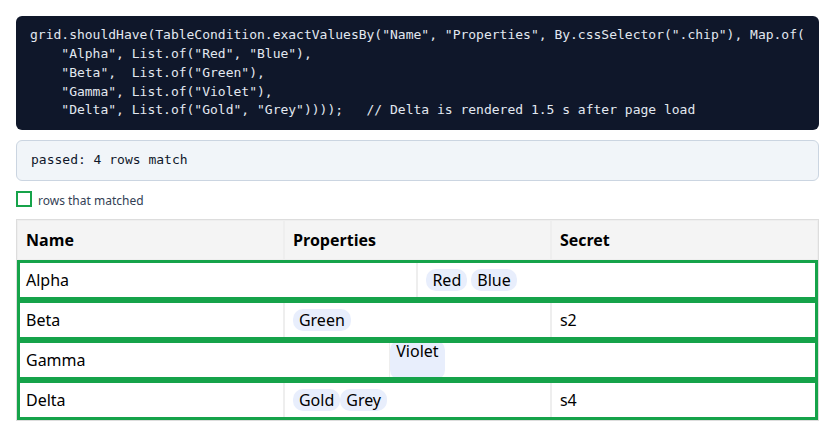
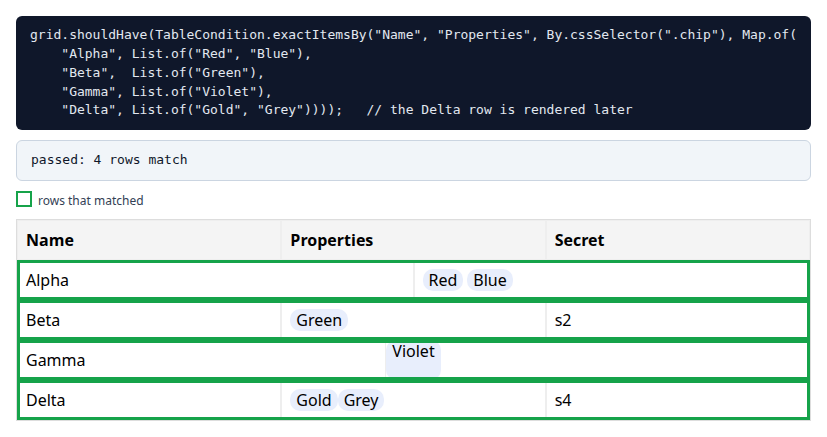
docs(selenide): correct the bulk table guide and keep one home for its rules

diff --git a/docs/table-bulk-checks.md b/docs/table-bulk-checks.md
@@ -10,25 +10,35 @@ bulk API reads the **whole table in one browser call** and builds on that:
    reported as a short diff, not 400 rows;
 3. **`shouldSatisfy(assertions)`**: runs your AssertJ assertions on a fresh snapshot until they pass.
 
-Each check attempt costs one root lookup plus one script call, whatever the number of rows. Header lookup follows
-the usual rules of the helper: exact text after whitespace normalization, and `TableColumnException` when a header is
+Each read costs one root lookup plus one script call, whatever the number of rows. Header lookup follows the usual
+rules of the helper: exact text after whitespace normalization, and `TableColumnException` when a header is
 `not found` or `ambiguous`.
 
 The screenshots below are taken by real Selenide runs against the test fixture
-`tools/environment/assets/nginx/html/table-model-contract/snapshot.html`. Every example is executed and asserted by
-`TableBulkDocExamplesTest`, which also produces these images. Each image shows the code, what it returned, and the
-elements involved: **amber** for headers, **blue** for rows or key cells, **red** for items or differences, and
-**green** for what a passing check compared.
+`tools/environment/assets/nginx/html/table-model-contract/snapshot.html`. The examples in sections 1–9 are executed
+and asserted by `TableBulkDocExamplesTest` on every test run. `./gradlew :integrations:selenide:tableDocScreenshots`
+also saves these images to `build/reports/table-docs`. The error messages in section 10 are covered by the unit
+tests in `dev.quokkify.elements.table`.
+
+Each image shows the code, what it returned, and the elements involved:
+
+- **amber** for headers or unexpected rows;
+- **blue** for rows or key cells;
+- **red** for items or differences;
+- **green** for what a passing check compared;
+- **grey dashed** for a cell with hidden items.
+
+Rows 1 and 3 of the fixture look shifted because their Secret cell is hidden and takes no space.
 
 ## API
 
-| Type             | Methods                                                                                                                                                            |
-| ---------------- | ------------------------------------------------------------------------------------------------------------------------------------------------------------------ |
-| `Table`          | `snapshot()`, `snapshot(By items)`, `shouldHave(TableCondition[, Duration])`, `shouldSatisfy([By items,] Consumer<TableSnapshot>[, Duration])`                     |
-| `TableSnapshot`  | `headers()`, `rows()`, `column(header)`, `columnValues(header)`, `texts(List<String> headers)`, `columnBy(keyHeader, header)`, `columnValuesBy(keyHeader, header)` |
-| `SnapshotRow`    | `cells()`, `cell(int index)`, `cell(String header)`                                                                                                                |
-| `SnapshotCell`   | `text()`, `values()` (texts of the items found inside the cell; empty without an items locator)                                                                    |
-| `TableCondition` | `exactRows(List<String> headers, List<List<String>> rows)`, `exactValuesBy(keyHeader, valuesHeader, By items, Map<String, List<String>>)`                          |
+| Type             | Methods                                                                                                                                        |
+| ---------------- | ---------------------------------------------------------------------------------------------------------------------------------------------- |
+| `Table`          | `snapshot()`, `snapshot(By items)`, `shouldHave(TableCondition[, Duration])`, `shouldSatisfy([By items,] Consumer<TableSnapshot>[, Duration])` |
+| `TableSnapshot`  | `headers()`, `rows()`, `column(header)`, `columnItems(header)`, `columnBy(keyHeader, header)`, `columnItemsBy(keyHeader, header)`              |
+| `SnapshotRow`    | `cells()`, `cell(int index)`, `cell(String header)`                                                                                            |
+| `SnapshotCell`   | `text()`, `items()` (texts of the items found inside the cell; empty without an items locator)                                                 |
+| `TableCondition` | `exactRows(List<String> headers, List<List<String>> rows)`, `exactItemsBy(keyHeader, header, By items, Map<String, List<String>>)`             |
 
 All examples use this ARIA grid, where each **Properties** cell holds a list of chips:
 
@@ -57,23 +67,27 @@ Pass a locator for the items. It is evaluated inside every cell, in the same bro
 
 ```java
 TableSnapshot snap = grid.snapshot(chip);
-snap.columnValues("Properties");   // [[Red, Blue], [Green], [Violet]]
+snap.columnItems("Properties");   // [[Red, Blue], [Green], [Violet]]
 ```
 
 Do not split `text()` on line breaks. Whether chips are separated by `\n` or by spaces depends on the page's CSS
-(flex or inline), and the item locator does not depend on it.
+(flex or inline), and the item locator does not depend on it. An XPath items locator must be relative to the cell:
+start it with `./` or `.//`. A locator starting with `//` matches every chip of the page in every cell.
 
 ![items](table-bulk-checks/02-items.png)
 
 ## 3. Hidden elements read like `getText()`
 
-Visibility follows Selenium's rules, so a snapshot agrees with the lazy API on the same DOM:
+Visibility is decided by Selenium's own `isDisplayed` atom, the one `WebElement.isDisplayed()` runs. After whitespace
+normalization, a snapshot therefore reads the same text as the lazy API's `getText()`:
 
-- **Cells.** A hidden cell reads as `""`. Hidden means `display: none` or `hidden`, `visibility: hidden`, or
-  `opacity: 0`, on the element or an ancestor.
-- **Items.** Hidden items are skipped.
-- **Text.** Text of hidden descendants is left out of a cell's text.
-- **`display: contents`.** An element with `display: contents` counts as visible when any of its children is.
+- **Hidden cells.** A hidden cell reads as `""`: `display: none` or `hidden`, `visibility: hidden`, `opacity: 0`,
+  zero size, or clipped by an `overflow: hidden` ancestor.
+- **Hidden items.** Hidden items are skipped.
+- **Hidden text.** Text of hidden descendants is left out of a cell's text. A visible child of a
+  `visibility: hidden` parent still counts.
+- **Icons and styling.** SVG icons contribute no text, and `text-transform` is applied.
+- **Selects.** A `<select>` reads as the text of its options.
 
 ```java
 grid.snapshot(chip).column("Secret");   // ["", "s2", ""]: row 1 display:none, row 3 opacity:0
@@ -84,10 +98,11 @@ grid.snapshot(chip).column("Secret");   // ["", "s2", ""]: row 1 display:none, r
 ## 4. A column keyed by another column
 
 ```java
-Map<String, List<String>> chips = grid.snapshot(chip).columnValuesBy("Name", "Properties");
+Map<String, List<String>> chips = grid.snapshot(chip).columnItemsBy("Name", "Properties");
 // {Alpha=[Red, Blue], Beta=[Green], Gamma=[Violet]}
 
 Map<String, String> secrets = grid.snapshot().columnBy("Name", "Secret");
+// {Alpha=, Beta=s2, Gamma=}
 ```
 
 The maps keep row order and are unmodifiable. Keys must be unique: a row with no key cell, or a repeated key, throws
@@ -98,22 +113,23 @@ The maps keep row order and are unmodifiable. Keys must be unique: a row with no
 ## 5. Check the whole table, with waiting
 
 ```java
-grid.shouldHave(TableCondition.exactValuesBy("Name", "Properties", chip, Map.of(
+grid.shouldHave(TableCondition.exactItemsBy("Name", "Properties", chip, Map.of(
     "Alpha", List.of("Red", "Blue"),
     "Beta", List.of("Green"),
     "Gamma", List.of("Violet"),
     "Delta", List.of("Gold", "Grey"))));
 ```
 
-The Delta row is rendered 1.5 s after page load. Every attempt reads the table again, and the check passes as soon
-as the data matches. No separate `rows().shouldHave(...)` wait is needed.
+For this example the test adds a fourth row, Delta, after the page has opened; the fixture itself has three rows.
+Every attempt reads the table again, and the check passes as soon as the data matches. No separate
+`rows().shouldHave(...)` wait is needed.
 
 - **Order.** Keys may come in any row order; items within a cell are compared in displayed order.
 - **Timeout.** The default is Selenide's timeout; pass a `Duration` as the second argument to change it.
-- **Failure.** A failing check throws a Selenide `ElementShould` on the table root, with the usual screenshot, report
-  step and soft-assert support.
+- **Failure.** A timed-out check throws a Selenide `ElementShould` on the table root, or `ElementNotFound` when the
+  root never appears, with the usual screenshot, report step and soft-assert support.
 
-Left: the first attempt, while Delta is not rendered yet. Right: the check has passed.
+Left: an attempt before Delta is rendered. Right: the check has passed.
 
 <img src="table-bulk-checks/05a-wait-before.png" alt="first attempt" width="420"> <img src="table-bulk-checks/05b-wait-after.png" alt="check passed" width="420">
 
@@ -124,10 +140,12 @@ The failure message lists only the differences, at most 10 per section, followed
 - missing keys, in the order of the expected map;
 - unexpected keys and changed values, in row order.
 
+`Map.of` has no defined order, so pass a `LinkedHashMap` if you want missing keys listed in a stable order.
+
 ```java
-grid.shouldHave(TableCondition.exactValuesBy("Name", "Properties", chip, Map.of(
+grid.shouldHave(TableCondition.exactItemsBy("Name", "Properties", chip, Map.of(
     "Alpha", List.of("Red"), "Beta", List.of("Green"), "Gamma", List.of("Violet"),
-    "Epsilon", List.of())), Duration.ofSeconds(1));
+    "Epsilon", List.of())), Duration.ofMillis(300));
 ```
 
 ```
@@ -139,6 +157,12 @@ unexpected (1):
 different (1):
   Alpha: expected [Red] but was [Red, Blue]
 ```
+
+The first line compares row counts only; equal counts do not mean the rows match.
+
+Like any Selenide `should*` on an element, the message also contains Selenide's description of the table root,
+including its whole text, after the diff. Selenide builds that description on every failed attempt, which costs a
+few extra WebDriver calls per poll. A passing attempt costs one script call.
 
 ![failure diff](table-bulk-checks/06-failure-diff.png)
 
@@ -152,20 +176,20 @@ grid.shouldHave(TableCondition.exactRows(List.of("Name", "Secret"), List.of(
     List.of("Alpha", ""), List.of("Beta", "s2"), List.of("Gamma", ""), List.of("Delta", "s4"))));
 ```
 
-Rows are compared by position, so one inserted row shows up as many `different` rows. The first line of the failure
-message gives both row counts.
+Rows are compared by position, so one inserted row shows up as many `different` rows. The `Actual value:` line of
+the failure gives both row counts.
 
 ![exact rows](table-bulk-checks/07-exact-rows.png)
 
 ## 8. Any check with AssertJ
 
 For anything other than whole-table equality, write ordinary AssertJ assertions over the snapshot. They are re-read
-and re-run until they pass:
+and re-run until they pass. This example runs on the original three rows:
 
 ```java
 grid.shouldSatisfy(chip, snap -> {
   assertThat(snap.column("Name")).doesNotContain("Failed").hasSize(3);
-  assertThat(snap.columnValuesBy("Name", "Properties").get("Alpha")).contains("Red");
+  assertThat(snap.columnItemsBy("Name", "Properties").get("Alpha")).contains("Red");
 });
 ```
 
@@ -176,10 +200,14 @@ These failures count as "not ready yet" and are retried:
 - a row or cell that is not rendered (`IndexOutOfBoundsException`, `NoSuchElementException`);
 - a key column with a missing cell or a repeated key.
 
-Any other exception fails the check at once, as itself. For example, `Integer.parseInt` on a cell that still shows
-"Loading…" throws `NumberFormatException`, so a bug in the test surfaces immediately and does not wait out the
-timeout. On a timeout the actual value is the last AssertJ message. For whole-table equality on large tables, prefer
-a `TableCondition` and its short diff.
+Any other exception fails the check at once, as itself, so a bug in the test surfaces immediately instead of waiting
+out the timeout. For example, `Integer.parseInt` on a cell that still shows "Loading…" throws
+`NumberFormatException`. Assert on the text first, for example `assertThat(text).matches("\\d+")`, and parse only
+after that. Likewise, `columnBy(...).get(key)` returns `null` for a key that is not rendered yet. Pass it to
+`assertThat(...)`, which is retried, and do not dereference it: a `NullPointerException` is not retried.
+
+On a timeout the actual value is the last AssertJ message. For whole-table equality on large tables, prefer a
+`TableCondition` and its short diff.
 
 ![should satisfy](table-bulk-checks/08-should-satisfy.png)
 
@@ -197,26 +225,32 @@ row by row through `TableRow.cell(header)` costs about ten round trips per row.
 
 ## 10. Errors
 
+`{...}` is the locator of the table root. The last three lines use a hypothetical table `#t`.
+
 ```
 snap.column("Region")                → TableColumnException: Column "Region" not found in {#chip-grid}; displayed headers: [Name, Properties, Secret]
 snap.column("Company")               → TableColumnException: Column "Company" ambiguous in {#repeated-table}; displayed headers: [Country, Company, Company]
 snap.rows().get(1).cell("Secret")    → NoSuchElementException: row 1 has 1 cells, no cell for header "Secret" in {#t}   (short row)
-snap.columnValuesBy("Name", "Tags")  → IllegalStateException: rows 0 and 2 both have "Alpha" in key column "Name" of {#t}
+snap.columnItemsBy("Name", "Tags")   → IllegalStateException: rows 0 and 2 both have "Alpha" in key column "Name" of {#t}
 snapshot() with By.id / By.name      → UnsupportedOperationException: snapshot() supports By.xpath and By.cssSelector, got: By.id: r
 ```
 
 When used inside `shouldHave` or `shouldSatisfy`, the first four fail the attempt and are retried. After the timeout,
-the `ElementShould` message contains their text. An unsupported locator fails before the browser is called.
+the `ElementShould` message contains their text; inside `shouldSatisfy` the text is prefixed with the exception
+class. An unsupported locator, or an XPath the browser cannot parse, fails at once without waiting.
 
 ## Which one to use
 
-| You want to                                               | Use                                                               |
-| --------------------------------------------------------- | ----------------------------------------------------------------- |
-| check one column of an XPath layout, with waiting         | `table.column(h).shouldHave(exactTexts(...))` (already one call)  |
-| check a whole table: key column to items, or aligned rows | `table.shouldHave(TableCondition.exactValuesBy / exactRows(...))` |
-| any other check over the data, with waiting               | `table.shouldSatisfy(snap -> assertThat(...))`                    |
-| read the data once, for custom logic                      | `table.snapshot()` / `snapshot(By items)`                         |
-| act on a row or cell (click, type), or a small table      | the lazy API: `row(column, value).cell(header)`                   |
+| You want to                                               | Use                                                              |
+| --------------------------------------------------------- | ---------------------------------------------------------------- |
+| check one column of an XPath layout, with waiting         | `table.column(h).shouldHave(exactTexts(...))` (already one call) |
+| check a whole table: key column to items, or aligned rows | `table.shouldHave(TableCondition.exactItemsBy / exactRows(...))` |
+| any other check over the data, with waiting               | `table.shouldSatisfy(snap -> assertThat(...))`                   |
+| read the data once, for custom logic                      | `table.snapshot()` / `snapshot(By items)`                        |
+| act on a row or cell (click, type), or a small table      | the lazy API: `row(column, value).cell(header)`                  |
+
+`column(h).texts()` reads hidden cell text too (Selenide reads `innerText || textContent` without a visibility
+check), while a snapshot reads hidden cells as `""`.
 
 ## Matching rules and limitations
 
@@ -224,5 +258,5 @@ the `ElementShould` message contains their text. An unsupported locator fails be
   trimmed. Write expected texts with single spaces.
 - Locators of the layout and the items locator must be `By.xpath` or `By.cssSelector`.
 - Only rows mounted in the DOM are read. A virtualized grid returns the rows currently rendered.
-- Values are read as visible text: an `<input>` or `<select>` in a cell reads as `""`.
+- Values are read as visible text: an `<input>` reads as `""`, as with `getText()`.
 - `colspan` / `rowspan` are not modelled, as in the rest of the helper.

diff --git a/docs/table-api.md b/docs/table-api.md
@@ -1,8 +1,9 @@
 # Table API
 
 A thin, header-aware helper over Selenide in `integrations/selenide`, package `dev.quokkify.elements.table`.
-It covers three things plain Selenide does not give: a column addressed by its displayed header, a row lookup
-scoped to one column, and a failure on ambiguous headers. Everything else (waiting, assertions, cell actions)
+It covers four things plain Selenide does not give: a column addressed by its displayed header, a row lookup
+scoped to one column, a failure on ambiguous headers, and reading or checking a whole table in one browser call
+(see [Bulk read and whole-table checks](table-bulk-checks.md)). Everything else (waiting, assertions, cell actions)
 is ordinary Selenide on the returned `SelenideElement` / `ElementsCollection`.
 
 Public types: `Table`, `TableRow`, `TableLayout`, `HorizontalTable`, `TableColumnException`, for bulk checks
@@ -148,7 +149,8 @@ so it survives header reordering and waits for delayed rows through the normal `
 `cell(header)` resolves the column index when it is called (waiting for the requested header with Selenide's default
 timeout) and returns an element that is lazy by index. Call `cell(header)` again after columns are reordered.
 
-`snapshot()` is the exception: it returns plain data read once (see [Bulk read](#bulk-read-snapshot)).
+`snapshot()` is the exception: it returns plain data read once (see
+[Bulk read and whole-table checks](table-bulk-checks.md)).
 
 ### Header errors
 
@@ -177,97 +179,24 @@ resolved once, when `column` is called.
 
 Each row evaluation in `row(column, value)` / `rows(column, value)` makes several WebDriver calls (headers, the
 row's cells, the cell text); on very large tables prefer a narrow layout (for example rows limited by an XPath
-predicate) so fewer rows are evaluated. To read a whole table, use `snapshot()` (see [Bulk read](#bulk-read-snapshot)).
+predicate) so fewer rows are evaluated. To read or check a whole table, see
+[Bulk read and checks](#bulk-read-and-checks).
 
-## Bulk check (`shouldHave`, `shouldSatisfy`)
+## Bulk read and checks
 
-A walkthrough with screenshots of every example is in [Bulk read and whole-table checks](table-bulk-checks.md).
-
-To verify the data of a large table, check it as a whole. Both methods read the table in one browser call per
-attempt, like [`snapshot()`](#bulk-read-snapshot), and retry until Selenide's timeout (or the `Duration` overload),
-so they need no separate wait for rows. A check that times out fails with a Selenide `ElementShould` on the table root
-(`ElementNotFound` when the root never appears), with the usual screenshot, report step and soft-assert support.
+`snapshot()`, `shouldHave(TableCondition)` and `shouldSatisfy(assertions)` read the whole table in one browser call
+per attempt, so their cost does not grow with the number of rows:
 
 ```java
 Table grid = Table.of($("#properties"), TableLayout.aria());
-By chip = By.cssSelector(".chip");
 
-grid.shouldHave(TableCondition.exactValuesBy("Name", "Properties", chip, Map.of(
-    "Alpha", List.of("Red", "Blue"),
-    "Beta", List.of("Green"))));
-grid.shouldHave(TableCondition.exactRows(List.of("Name", "Status"), List.of(
-    List.of("Alpha", "Active"),
-    List.of("Beta", "Draft"))));
+grid.shouldHave(TableCondition.exactItemsBy("Name", "Properties", By.cssSelector(".chip"), expectedChipsByName));
 grid.shouldSatisfy(snap -> assertThat(snap.column("Status")).doesNotContain("Failed"));
 ```
 
-| Check                                                     | Passes when                                                         |
-| --------------------------------------------------------- | ------------------------------------------------------------------- |
-| `exactRows(headers, expected)`                            | the texts of `headers`, row by row in row order, equal `expected`   |
-| `exactValuesBy(keyHeader, valuesHeader, items, expected)` | key text -> items of the value cell equal `expected`; any row order |
-| `shouldSatisfy([items,] assertions [, timeout])`          | the AssertJ `assertions` pass on the snapshot                       |
-
-- The two `TableCondition` checks report a short difference on failure (missing, unexpected and different rows, at
-  most 10 of each), not every row. `shouldSatisfy` reports the last AssertJ message, which for large collections can
-  be long; prefer a `TableCondition` for whole-table equality.
-- Retried as "not ready yet": a failed assertion or mismatch, a header that is not displayed or is ambiguous, a row
-  or cell that is not rendered, and a key column with a missing cell or a repeated key. Any other exception thrown
-  by your `shouldSatisfy` assertions (for example `Integer.parseInt` on a cell that still shows "Loading…") is not
-  retried: it fails the check at once as itself. Assert on the text first, or parse inside an assertion.
-- Mismatches are listed with missing keys in the order of the expected map and other differences in row order.
-  `exactRows` compares by position, so one inserted row shows as many "different" rows; the headline gives both
-  row counts.
-- Displayed texts are whitespace-normalized; write expected texts with single spaces.
-- Texts, hidden cells and items, short rows and locators behave as in [Bulk read](#bulk-read-snapshot).
-
-## Bulk read (`snapshot`)
-
-Reading every row through `rows()` and `TableRow.cell(header)` costs about ten WebDriver round trips per row,
-which takes tens of seconds on a table with hundreds of rows. `snapshot()` reads the headers and every row's cell
-texts in one browser call and returns immutable data to assert on with AssertJ:
-
-```java
-Table grid = Table.of($("#properties"), TableLayout.aria());
-grid.rows().shouldHave(sizeGreaterThan(0));                  // wait first: a snapshot does not wait for rows
-
-TableSnapshot snap = grid.snapshot(By.cssSelector(".chip"));  // or snapshot() without items
-assertThat(snap.column("Name")).contains("Alpha");
-assertThat(snap.columnValues("Properties").get(0)).containsExactly("Red", "Blue");
-assertThat(snap.rows().get(1).cell("Name").text()).isEqualTo("Beta");
-```
-
-| Type            | Content                                                                                                                                                                           |
-| --------------- | --------------------------------------------------------------------------------------------------------------------------------------------------------------------------------- |
-| `TableSnapshot` | `headers()`, `rows()`, `column(header)`, `columnValues(header)`, `texts(headers)` (rows of several columns), `columnBy(key, header)` / `columnValuesBy(key, header)` (keyed maps) |
-| `SnapshotRow`   | `cells()`, `cell(int)`, `cell(header)`                                                                                                                                            |
-| `SnapshotCell`  | `text()`, `values()` (texts of the `items` found inside the cell; empty without `items`)                                                                                          |
-
-- **Point in time.** To verify data, prefer the [bulk checks](#bulk-check-shouldhave-shouldsatisfy). The snapshot
-  waits only for the root to exist (Selenide's default timeout). It does not wait
-  for rows, does not retry and does not follow remounts: wait for the expected state first.
-- **Multi-value cells.** Pass a locator for the items inside a cell (chips, tags) to `snapshot(By items)`; it is
-  evaluated relative to every cell. Do not split `text()` on line breaks: whether items are separated by `\n`
-  or by spaces depends on the page's CSS.
-- **Locators.** The layout and `items` must be `By.xpath` or `By.cssSelector`; any other `By` throws
-  `UnsupportedOperationException` before the browser is called.
-- **Text.** Headers, cell texts and item texts are whitespace-normalized like header lookup. A hidden cell reads
-  as `""`, as in the lazy API; hidden items are skipped. Hidden means no layout box (`display: none`, `hidden`),
-  `visibility: hidden` or `opacity: 0` on the element or an ancestor; a `display: contents` element counts as
-  visible when any of its children is. Text clipped by an `overflow: hidden` ancestor is still read.
-- **Headers.** `column`, `columnValues` and `cell(header)` follow the [header rules](#header-errors) without
-  waiting: `TableColumnException` with `not found` or `ambiguous`.
-- **Short rows.** `column(...)` gives `""` (and `columnValues(...)` an empty list) for a row with too few cells, so
-  the result stays aligned with `rows()`; `cell(...)` on such a row throws `NoSuchElementException`.
-- **Keyed maps.** `columnBy` and `columnValuesBy` keep row order; a row with no key cell or a repeated key throws
-  `IllegalStateException` naming the rows.
-- **Mounted rows only.** Virtualized grids return the rows currently in the DOM.
-
-Selenide already reads a whole collection's texts in one browser call, so a single column of an XPath layout is
-fast without a snapshot, and its assertion waits and retries:
-`table.column("Name").shouldHave(exactTexts(...))`. Use `snapshot()` when you need several columns aligned by row,
-items grouped per cell, or a CSS layout (where `column(...)` is unsupported). Note that `column(...).texts()` also
-reports hidden cell text, while a snapshot reads hidden cells as `""`. Prefer the lazy API for small tables and for
-assertions that should wait and retry.
+Behaviour, rules and limits, with a screenshot of every example, are in
+[Bulk read and whole-table checks](table-bulk-checks.md). Prefer the lazy API above for small tables and for acting
+on a cell (click, type).
 
 ## Known limitations
 
@@ -282,8 +211,9 @@ assertions that should wait and retry.
 
 ## Not covered
 
-Table-specific assertions beyond `TableCondition` and `shouldSatisfy`, typed cell values, wrappers for controls inside cells, sorting,
-filtering, pagination, virtual scrolling, page-factory (`@FindBy`) injection (see the page-object recipe above).
+Table-specific assertions beyond `TableCondition` and `shouldSatisfy`, typed cell values, wrappers for controls
+inside cells, sorting, filtering, pagination, virtual scrolling, page-factory (`@FindBy`) injection (see the
+page-object recipe above).
 
 ## Migration from the removed table stack
 
